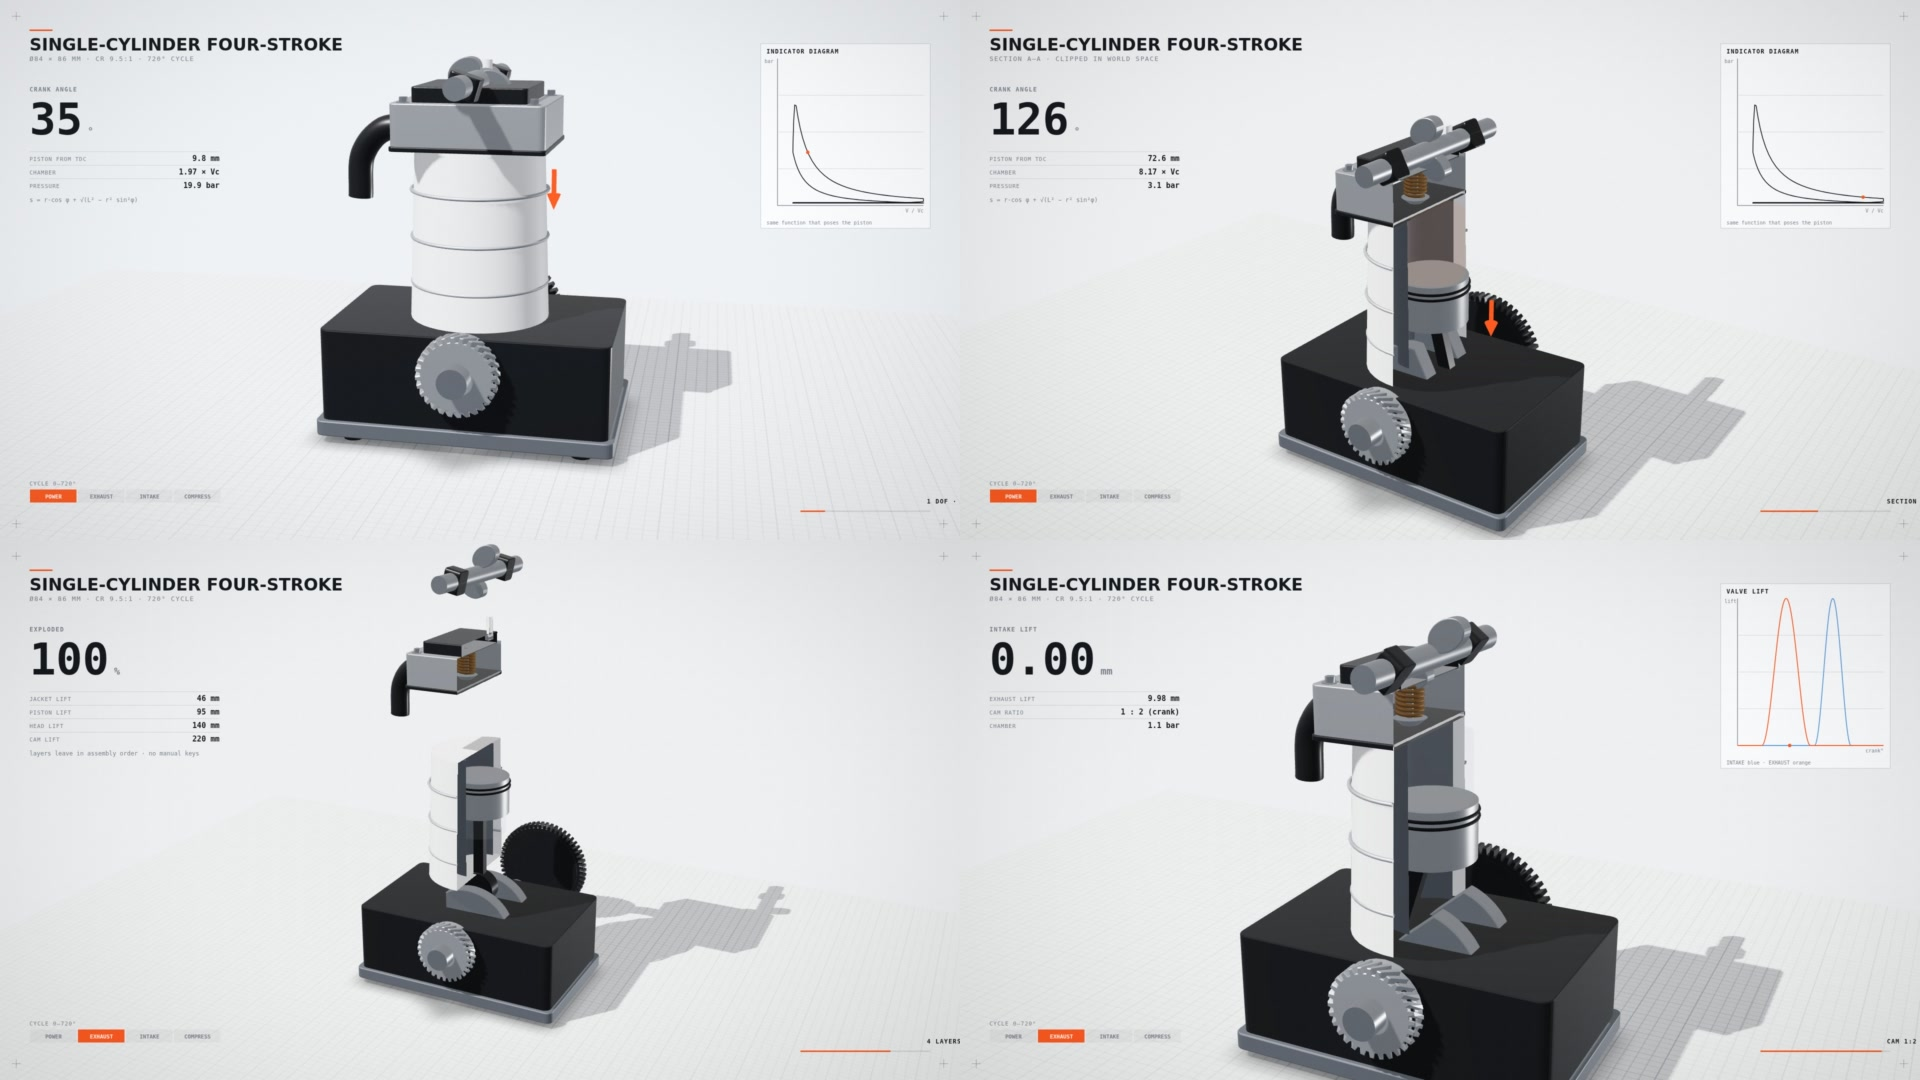
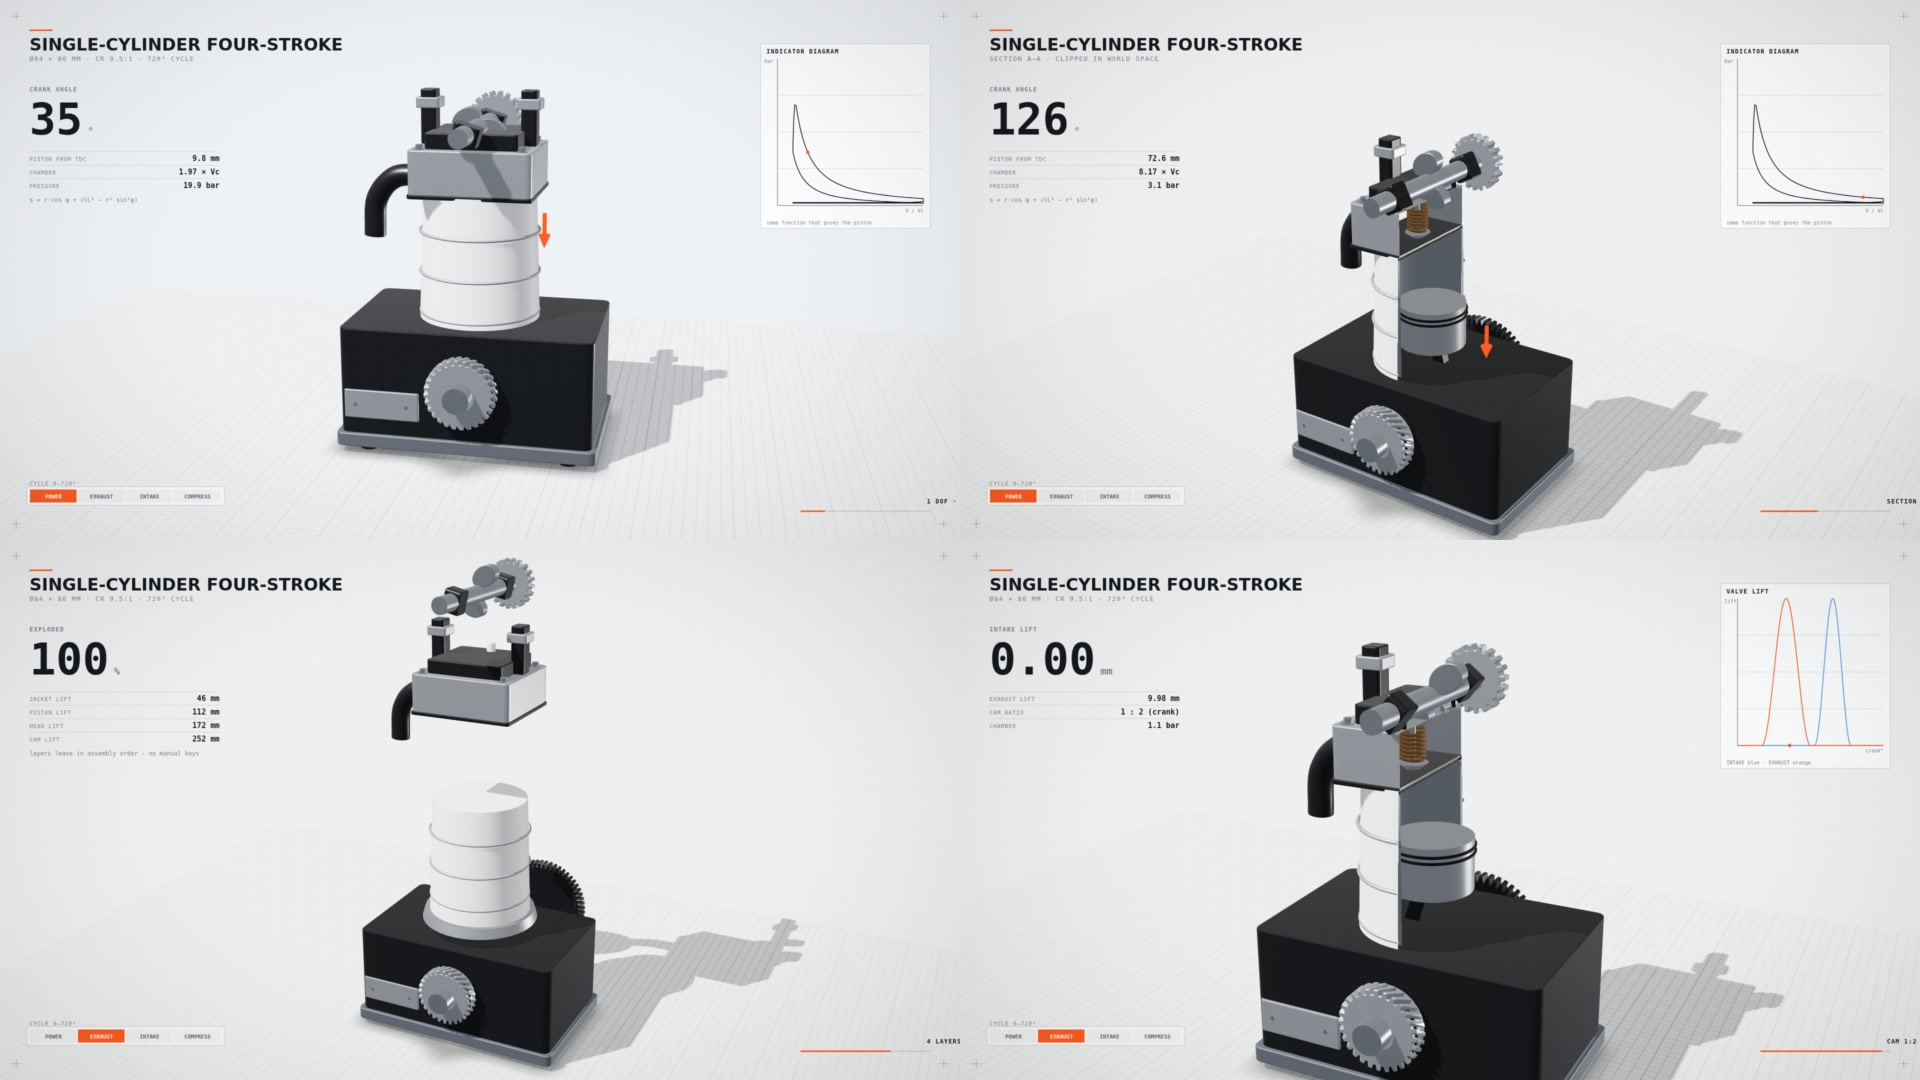
refactor(calibration-lab): tighten framing boxes, enclose crank, add cam carrier and solid exploded view
- framing boxes now include the bench lift, so no shot crops the sample
- crank webs enclosed by the case (they poked through as loose wedges)
- cam carrier posts + bearing caps, cam sprocket rides the shaft
- byte-identical explode spacing (jacket 46 / piston 112 / head 172 / cam 252 mm)
- charge column no longer z-fights the piston crown, hidden in section
- section cap code removed (no stencil in the headless framebuffer), documented in SPEC

diff --git a/styles/calibration-lab/world.js b/styles/calibration-lab/world.js
@@ -93,7 +93,7 @@ const CHARGE = ['#D98A5E', '#A7ADB4', '#7FA6C4', '#C9CDD2'];
 
 /** Crank web outline: counterweight sector opposite the pin, boss around the pin. */
 function webGeometry(thick) {
-  const R = 64;
+  const R = 54;
   const s = new THREE.Shape();
   s.moveTo(-R * Math.sin(1.0), -R * Math.cos(1.0));
   s.absarc(0, 0, R, -Math.PI / 2 - 1.0, -Math.PI / 2 + 1.0, false);
@@ -144,11 +144,18 @@ export function buildSample(M, hostScene) {
     }
   }
   // Closed crankcase: the section cut is what opens it, which keeps scene 01 a clean silhouette.
-  const crankcase = add(frame, blockGeometry({ w: 290, h: 110, d: 180, r: 10 }), M.black);
-  crankcase.position.y = -22;
+  const crankcase = add(frame, blockGeometry({ w: 290, h: 142, d: 180, r: 10 }), M.black);
+  crankcase.position.y = -8;
   const boss = add(frame, new THREE.CylinderGeometry(34, 38, 18, 32), M.alu);
   boss.rotation.x = Math.PI / 2;
   boss.position.set(0, 0, 96);
+  const plate = add(frame, blockGeometry({ w: 86, h: 34, d: 3, r: 3 }), M.alu);
+  plate.position.set(-96, -26, 91);
+  for (const px of [-30, 30]) {
+    const screw = add(frame, boltGeometry({ r: 2.6, h: 4 }), M.steel);
+    screw.position.set(-96 + px, -26, 93);
+    screw.rotation.x = Math.PI / 2;
+  }
   const bossRing = add(frame, new THREE.TorusGeometry(35, 2.4, 8, 32), M.black);
   bossRing.position.set(0, 0, 105);
 
@@ -156,12 +163,13 @@ export function buildSample(M, hostScene) {
   shells.push(jacketMat);
   const cylGroup = new THREE.Group();
   frame.add(cylGroup);
-  const boreMat = M.aluDark.clone();
-  boreMat.side = THREE.BackSide;
+  const boreMat = new THREE.MeshStandardMaterial({ color: '#9AA1A8', metalness: 0.55, roughness: 0.55, side: THREE.BackSide });
   shells.push(boreMat);
-  const boreSleeve = add(cylGroup, new THREE.CylinderGeometry(K.bore / 2 + 1, K.bore / 2 + 1, 168, 44, 1, true), boreMat, { cast: false });
-  boreSleeve.position.y = 126;
+  const boreSleeve = add(cylGroup, new THREE.CylinderGeometry(63, 63, 176, 44, 1, true), boreMat, { cast: false });
+  boreSleeve.position.y = 120;
   boreSleeve.visible = false;
+  const baseFlange = add(cylGroup, new THREE.CylinderGeometry(78, 82, 14, 44), shellAlu);
+  baseFlange.position.y = 40;
   const jacket = add(cylGroup, new THREE.CylinderGeometry(66, 72, 180, 44), jacketMat);
   jacket.position.y = 122;
   for (const y of [70, 118, 166]) {
@@ -207,16 +215,16 @@ export function buildSample(M, hostScene) {
 
   const head = new THREE.Group();
   root.add(head);
-  const headBody = add(head, blockGeometry({ w: 150, h: 44, d: 130, r: 6 }), shellAlu);
-  headBody.position.y = 234;
-  const gasket = add(head, blockGeometry({ w: 152, h: 5, d: 132, r: 4 }), shellBlack);
+  const headBody = add(head, blockGeometry({ w: 138, h: 52, d: 124, r: 6 }), shellAlu);
+  headBody.position.y = 238;
+  const gasket = add(head, blockGeometry({ w: 140, h: 5, d: 126, r: 4 }), shellBlack);
   gasket.position.y = 212;
-  const headTop = add(head, blockGeometry({ w: 112, h: 16, d: 104, r: 4 }), shellBlack);
-  headTop.position.y = 263;
+  const headTop = add(head, blockGeometry({ w: 104, h: 18, d: 98, r: 4 }), shellBlack);
+  headTop.position.y = 273;
   for (const sx of [-1, 1]) {
     for (const sz of [-1, 1]) {
       const b = add(head, boltGeometry({ r: 4.4, h: 7 }), valveSteel);
-      b.position.set(sx * 64, 258, sz * 54);
+      b.position.set(sx * 58, 266, sz * 51);
     }
   }
 
@@ -255,9 +263,17 @@ export function buildSample(M, hostScene) {
   add(plug, new THREE.CylinderGeometry(6, 6, 26, 16), jacketMat).position.y = 12;
   add(plug, new THREE.CylinderGeometry(8, 8, 7, 6), valveSteel).position.y = -2;
 
-  // ---------------------------------------------------------------- camshaft
+  // ---------------------------------------------------------------- cam carrier + camshaft
+  for (const sx of [-1, 1]) {
+    const post = add(head, blockGeometry({ w: 16, h: 62, d: 20, r: 3 }), shellBlack);
+    post.position.set(sx * 58, 296, 0);
+    const capBlock = add(head, blockGeometry({ w: 26, h: 12, d: 26, r: 3 }), shellAlu);
+    capBlock.position.set(sx * 58, 312, 0);
+    const nut = add(head, boltGeometry({ r: 3.6, h: 6 }), valveSteel);
+    nut.position.set(sx * 58, 319, 0);
+  }
   const cam = new THREE.Group();
-  cam.position.y = 274;
+  cam.position.y = 284;
   root.add(cam);
   const camShaft = add(cam, new THREE.CylinderGeometry(11, 11, 224, 20), M.steel);
   camShaft.rotation.x = Math.PI / 2;
@@ -265,6 +281,11 @@ export function buildSample(M, hostScene) {
     const bearing = add(cam, blockGeometry({ w: 28, h: 22, d: 22, r: 4 }), M.black);
     bearing.position.set(0, 0, z);
   }
+  // cam sprocket rides on the shaft: the one thing that says "driven", not "decorative"
+  const camSprocket = new THREE.Mesh(gearGeometry({ teeth: 20, rOut: 33, rRoot: 28, width: 11, holeR: 11 }), M.alu);
+  camSprocket.position.z = -96;
+  cam.add(camSprocket);
+
   const lobes = [];
   for (const [sx, which] of [[-1, 'intake'], [1, 'exhaust']]) {
     const lg = new THREE.Group();
@@ -320,64 +341,9 @@ export function buildSample(M, hostScene) {
   const clipPlane = new THREE.Plane(new THREE.Vector3(-1, 0, 0), 0.9);
   let cutNow = '';
 
-  // Section caps, teardown-style: two stencil twins per clipped mesh count its faces beyond the
-  // cut, and a plane lying on the cut paints the cap colour wherever the count says metal.
-  const capCount = (side, op) =>
-    new THREE.MeshBasicMaterial({
-      side,
-      colorWrite: false,
-      depthWrite: false,
-      depthTest: false,
-      stencilWrite: true,
-      stencilFunc: THREE.AlwaysStencilFunc,
-      stencilFail: op,
-      stencilZFail: op,
-      stencilZPass: op,
-      clippingPlanes: [clipPlane],
-    });
-  const capBack = capCount(THREE.BackSide, THREE.IncrementWrapStencilOp);
-  const capFront = capCount(THREE.FrontSide, THREE.DecrementWrapStencilOp);
-  const capMat = new THREE.MeshStandardMaterial({
-    color: '#D7DADE',
-    roughness: 0.62,
-    metalness: 0.0,
-    side: THREE.DoubleSide,
-    stencilWrite: true,
-    stencilRef: 0,
-    stencilFunc: THREE.NotEqualStencilFunc,
-    stencilFail: THREE.ReplaceStencilOp,
-    stencilZFail: THREE.ReplaceStencilOp,
-    stencilZPass: THREE.ReplaceStencilOp,
-  });
-  const cap = new THREE.Mesh(new THREE.PlaneGeometry(3, 3), capMat);
-  cap.renderOrder = 3;
-  cap.visible = false;
-  cap.onAfterRender = (r) => r.clearStencil();
-  hostScene.add(cap);
+  // The cut is a hollow half-shell: a stencil cap needs a stencil-attached default framebuffer,
+  // which the headless renderer does not provide (documented in SPEC §3). No dead code here.
 
-  const capTwins = [];
-  {
-    const clipped = new Set(shells);
-    root.traverse((o) => {
-      if (!o.isMesh || !clipped.has(o.material)) return;
-      for (const mat of [capBack, capFront]) {
-        const twin = new THREE.Mesh(o.geometry, mat);
-        twin.castShadow = false;
-        twin.receiveShadow = false;
-        twin.renderOrder = 0.5;
-        twin.visible = false;
-        o.add(twin);
-        capTwins.push(twin);
-      }
-    });
-  }
-  const placeCap = () => {
-    const c = clipPlane.constant;
-    const n = clipPlane.normal;
-    cap.position.set(-c * n.x, -c * n.y, -c * n.z);
-    cap.quaternion.setFromUnitVectors(new THREE.Vector3(0, 0, 1), n.clone().negate());
-  };
-  placeCap();
 
   const rootScale = 0.006;
   root.scale.setScalar(rootScale);
@@ -397,7 +363,6 @@ export function buildSample(M, hostScene) {
 
     // ---- section cut
     clipPlane.constant = ops.cutConst ?? 0.9;
-    placeCap();
     const sectionOn = cut === 'section';
     if (cut !== cutNow) {
       cutNow = cut;
@@ -410,27 +375,24 @@ export function buildSample(M, hostScene) {
       jacketMat.opacity = cut === 'glass' ? 0.42 : 1;
       jacketMat.depthWrite = cut !== 'glass';
       jacketMat.needsUpdate = true;
-      // Stencil caps need a stencil-attached default framebuffer; headless SwiftShader drops it,
-      // so the shipped look is a hollow half-shell (see SPEC §3).
-      cap.visible = false;
-      for (const t of capTwins) t.visible = false;
       M.glass.opacity = cut === 'solid' ? 0.9 : 0.18;
       M.glass.depthWrite = cut === 'solid';
       M.glass.needsUpdate = true;
       liner.visible = cut !== 'section';
       boreSleeve.visible = sectionOn;
+      charge.visible = cut !== 'section';
     }
 
     // ---- explode choreography (staged, so nothing passes through anything)
     const eJacket = layerEase(ex, [0.04, 0.46], 46);
-    const ePiston = layerEase(ex, [0.14, 0.62], 95);
-    const eHead = layerEase(ex, [0.30, 0.74], 140);
-    const eCam = layerEase(ex, [0.48, 0.92], 220);
+    const ePiston = layerEase(ex, [0.14, 0.62], 112);
+    const eHead = layerEase(ex, [0.30, 0.74], 172);
+    const eCam = layerEase(ex, [0.48, 0.92], 252);
 
     cylGroup.position.y = eJacket;
     flywheel.position.z = -112 - layerEase(ex, [0.0, 0.4], 120);
     head.position.y = eHead;
-    cam.position.y = 274 + eCam;
+    cam.position.y = 284 + eCam;
 
     // ---- rotating parts
     crank.rotation.z = -th * DEG;
@@ -468,8 +430,8 @@ export function buildSample(M, hostScene) {
     const key = strokeIndex(th);
     charge.material.color.set(CHARGE[key]);
     charge.material.opacity = key === 0 ? 0.16 : 0.1;
-    charge.position.y = (crown + K.deck) / 2 + ePiston * 0.15;
-    charge.scale.y = Math.max(1, K.deck - crown);
+    charge.position.y = crown + (K.deck - crown) / 2 + 1.5;
+    charge.scale.y = Math.max(1, K.deck - crown - 3);
 
     // ---- valvetrain
     for (const v of valveParts) {
@@ -518,10 +480,10 @@ export default async function createWorld({ width, height, scenes = [], style = 
   // Framing boxes, in world units, declared from the built sample's real extents. Subjects that are
   // Object3D get measured at their rest pose; the exploded stack needs its own envelope because the
   // parts leave their rest bounds while the camera is already moving.
-  const HERO = { center: [0, 1.0, 0], size: [2.15, 2.15, 2.0] };
-  const UPPER = { center: [0, 1.34, -0.1], size: [1.15, 1.9, 1.3] };
-  const HEAD = { center: [0, 1.52, 0], size: [0.92, 0.78, 0.82] };
-  const EXPLODED = { center: [0, 1.55, 0], size: [2.2, 3.3, 2.1] };
+  const HERO = { center: [0, 1.22, 0], size: [2.0, 2.55, 1.98] };
+  const UPPER = { center: [0, 1.55, -0.1], size: [1.2, 2.1, 1.35] };
+  const HEAD = { center: [0, 2.02, 0], size: [1.1, 1.05, 0.95] };
+  const EXPLODED = { center: [0, 1.95, 0], size: [2.2, 3.9, 2.1] };
 
   const director = studio.director({
     subjects: {
@@ -575,9 +537,9 @@ export default async function createWorld({ width, height, scenes = [], style = 
         big: { label: 'Exploded', value: Math.round(ex * 100), unit: '%' },
         rows: [
           { label: 'Jacket lift', value: `${Math.round(layerEase(ex, [0.04, 0.46], 46))} mm` },
-          { label: 'Piston lift', value: `${Math.round(layerEase(ex, [0.14, 0.62], 95))} mm` },
-          { label: 'Head lift', value: `${Math.round(layerEase(ex, [0.3, 0.74], 140))} mm` },
-          { label: 'Cam lift', value: `${Math.round(layerEase(ex, [0.48, 0.92], 220))} mm` },
+          { label: 'Piston lift', value: `${Math.round(layerEase(ex, [0.14, 0.62], 112))} mm` },
+          { label: 'Head lift', value: `${Math.round(layerEase(ex, [0.3, 0.74], 172))} mm` },
+          { label: 'Cam lift', value: `${Math.round(layerEase(ex, [0.48, 0.92], 252))} mm` },
         ],
         phase: { labels: STROKES, index: strokeIndex(th) },
         formula: 'layers leave in assembly order · no manual keys',
@@ -650,8 +612,7 @@ export default async function createWorld({ width, height, scenes = [], style = 
       ops.cut = 'section';
       ops.cutConst = lerp(0.9, 0.0, smootherstep(0.12, 1.5, localT));
     } else if (sceneIndex === 2) {
-      ops.cut = 'section';
-      ops.cutConst = 0.0;
+      ops.cut = 'solid';
       ops.explode = smootherstep(0.22, 2.3, localT);
       ops.arrows = 0;
     } else if (sceneIndex === 3) {

diff --git a/styles/calibration-lab/kernel.js b/styles/calibration-lab/kernel.js
@@ -468,12 +468,18 @@ export function createGaugeHud({ camera, width, height }) {
       const cellW = Math.round((portrait ? (W - m * 2) / 4 : 96 * u));
       const cellH = Math.round(26 * u);
       const py = H - m - cellH - Math.round(16 * u);
+      const stripW = cellW * phase.labels.length;
+      ctx.fillStyle = 'rgba(250, 251, 252, 0.86)';
+      ctx.fillRect(m - 6 * u, py - 6 * u, stripW + 12 * u, cellH + 12 * u);
+      ctx.strokeStyle = CAL_PALETTE.line;
+      ctx.lineWidth = 1;
+      ctx.strokeRect(m - 6 * u + 0.5, py - 6 * u + 0.5, stripW + 12 * u - 1, cellH + 12 * u - 1);
       phase.labels.forEach((label, i) => {
         const x = m + i * cellW;
         const on = i === phase.index;
         ctx.fillStyle = on ? accent : 'rgba(21, 24, 28, 0.04)';
         ctx.fillRect(x + 1, py, cellW - 3, cellH);
-        ctx.fillStyle = on ? '#FFFFFF' : CAL_PALETTE.muted;
+        ctx.fillStyle = on ? '#FFFFFF' : '#5E666F';
         ctx.font = `600 ${Math.round(10.5 * u)}px ${MONO}`;
         const tw = ctx.measureText(label).width;
         ctx.textAlign = 'center';

diff --git a/styles/calibration-lab/SPEC.md b/styles/calibration-lab/SPEC.md
@@ -27,7 +27,7 @@
 
 - **运镜（`engine/director.js` shot list）**：`push` / `pull` / `orbit` / `rise`，恒定 26–31° 焦段；**无抖**。特写只给刻线、配合面与读数。
 - **Pass Chain**：`['grain', { amount: 0.014, paper: 0.0, vignette: 0.16 }]`。材质感来自 kernel 的 PBR（阳极铝 / 钢 / 玻璃），不用屏幕空间贴图。
-- **剖切**：`renderer.localClippingEnabled = true`；`THREE.Plane((-1,0,0), c)` 沿 X 轴在世界空间扫过（0.9 → 0），只裁缸套 / 缸盖 / 阀组，机匣与曲轴保持完整；斜视 30–40° 才看得出半个圆柱的开口（正视时半圆柱投影仍是整圆）。截面盖已按 teardown 方式实现（stencil 双胞胎 + cap 平面），但**无头 SwiftShader 下 stencil 不生效**，首版关闭，改用 `DoubleSide` + 内壁 `boreSleeve` 表现切面。
+- **剖切**：`renderer.localClippingEnabled = true`；`THREE.Plane((-1,0,0), c)` 沿 X 轴在世界空间扫过（0.9 → 0），只裁缸套 / 缸盖 / 阀组，机匣与曲轴保持完整；斜视 30–40° 才看得出半个圆柱的开口（正视时半圆柱投影仍是整圆）。截面盖做过 teardown 式 stencil 双胞胎 + cap 平面，实测无头渲染的默认帧缓冲没有 stencil，cap 会整片绘制，因此**未采用**并已移除相关代码；当前用 `DoubleSide` 半壳 + 内壁 `boreSleeve` 表现切面。
 - **HUD**：相机子节点平面 + `CanvasTexture`，`depthTest:false / toneMapped:false`，每帧按 `camera.fov` 重算尺寸；`userData.skipContactShadow = true`。
 
 ---
@@ -75,4 +75,6 @@
 - [x] `node tools/render.mjs --style calibration-lab --sheet styles/calibration-lab/contact_sheet.jpg` 已生成并逐格读图（2026-11-01）
 - [x] `gallery/catalog.js` 已注册 `stageMode` / `bestFor` / `avoidFor` / `cameraPresets`
 
-首版已知短板：切面无可读盖色；排气歧管过简；爆炸镜头垂直节奏偏稀；仪表相位条在 1080p 下偏小。
+细节层：凸轮由两根立柱 + 轴承盖固定（避免“悬空横杆”），后端正时链轮随凸轮转动，机匣前脸有铆接铭牌，排气歧管按 CatmullRom 扫管生成。
+
+已知短板：切面无可读盖色（无 stencil 帧缓冲）；爆炸镜头垂直节奏偏稀；仪表相位条在 1080p 下偏小。
